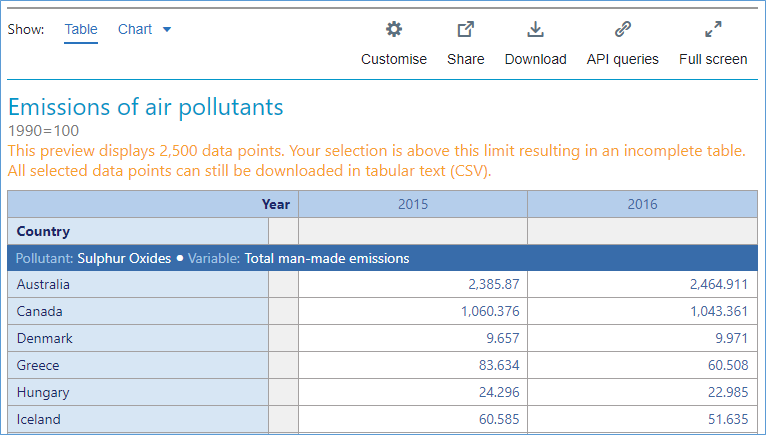
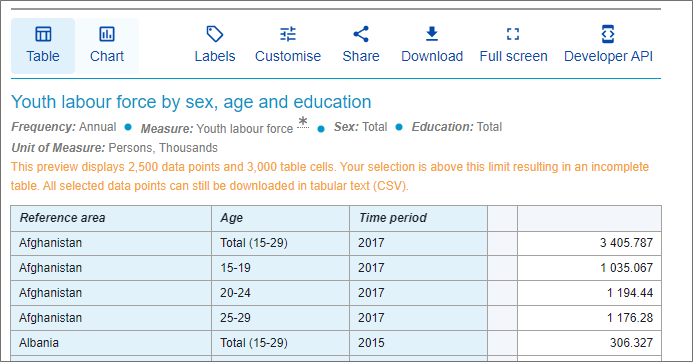
Update incomplete-data

diff --git a/content/using-de/viewing-data/preview-table/incomplete-data.md b/content/using-de/viewing-data/preview-table/incomplete-data.md
@@ -6,15 +6,15 @@ weight: 2700
 
 ---
 
->Released in [February 28, 2020 Release .Stat Suite JS 4.0.0](https://sis-cc.gitlab.io/dotstatsuite-documentation/changelog/#february-28-2020)  
+>Released in [February 28, 2020 Release .Stat Suite JS 4.0.0](https://sis-cc.gitlab.io/dotstatsuite-documentation/changelog/#february-28-2020) and enhanced with [data-explorer#403](https://gitlab.com/sis-cc/.stat-suite/dotstatsuite-data-explorer/-/issues/403) in [April 1, 2021 Release .Stat Suite JS 7.2.0](https://sis-cc.gitlab.io/dotstatsuite-documentation/changelog/#april-1-2021)
 
 Users are informed when data in the table preview or chart views are incomplete.  
-Data in table or chart views can be incomplete when the current data selections in the filters are too big to respect the maximum number of observations (see related Data Explorer configuration [documentation](https://sis-cc.gitlab.io/dotstatsuite-documentation/configurations/de-configuration/#maximum-number-of-observations-in-tables-and-charts)) or to fit into the maximum table size (see related Data Explorer configuration [documentation](https://sis-cc.gitlab.io/dotstatsuite-documentation/configurations/de-configuration/#maximum-number-of-cells-in-table)).  
+Data in table or chart views can be incomplete when the current data selections in the filters are too big to respect the maximum number of observations (see related Data Explorer configuration [documentation](https://sis-cc.gitlab.io/dotstatsuite-documentation/configurations/de-configuration/#maximum-number-of-observations-in-tables-and-charts)) or (for tables only) to fit into the maximum table size (see related Data Explorer configuration [documentation](https://sis-cc.gitlab.io/dotstatsuite-documentation/configurations/de-configuration/#maximum-number-of-cells-in-table)).  
 
-In these cases where the data returned in the visualisation page are incomplete, and an orange text in the table/chart's subtitle indicates that `"This preview displays [xxxx] data points. Your selection is above this limit resulting in an incomplete table. All selected data points can still be downloaded in tabular text (CSV)."`.  
+In cases where one of these two limits is reached and the data returned in the visualisation page is incomplete, an orange text is displayed below the subtitle: `"This preview displays [X,XXX] data points and [X,XXX] table cells. Your selection is above these limits resulting in an incomplete table. All selected data points can still be downloaded in tabular text (CSV)."`
 
 ![DE incomplete data message](/dotstatsuite-documentation/images/de-incomplete-data.png)  
 
-Also the Excel download will contain only the incomplete data.   
+Note that the Excel download file will also contain the incomplete data only.   
 
-Whenever the selection using the filters is sufficiently reduced in order to stay below the above limits, the alert text disappears again.  
+Whenever the selection using the filters is sufficiently reduced in order to stay below the above limits, then the warning text disappears from the subtitle.
